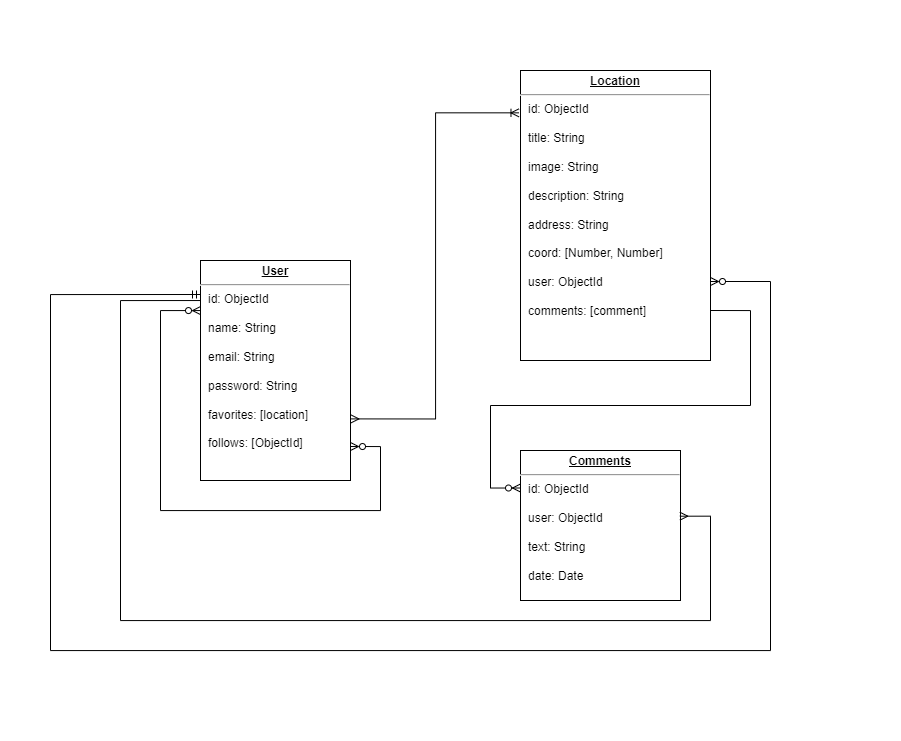
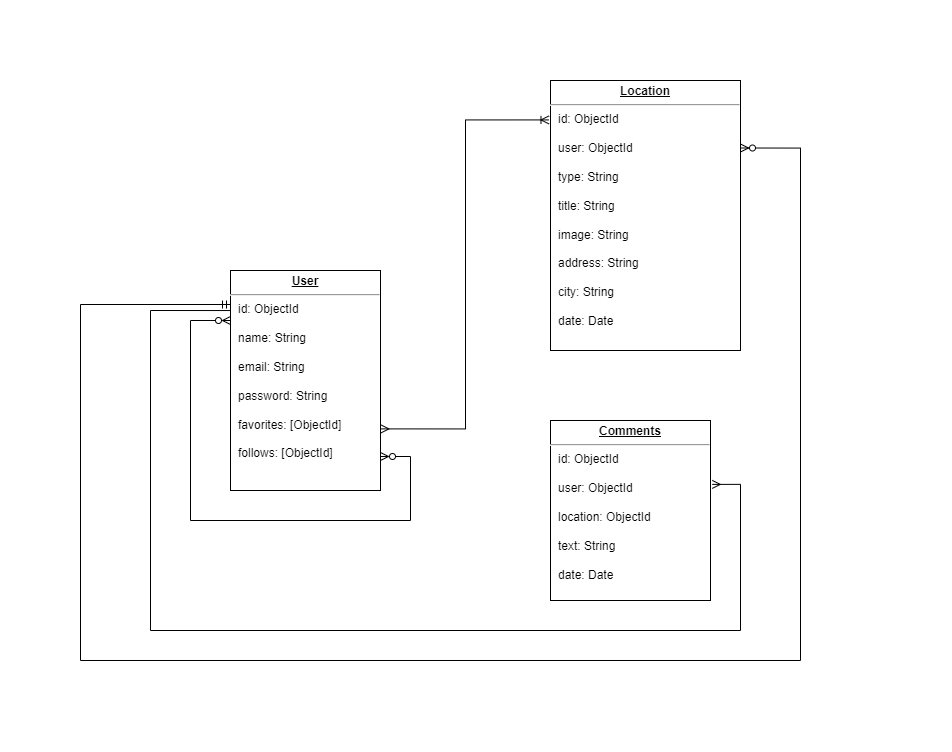
odify images and docs

diff --git a/staff/paula-rey/full-stack/final-project/docs/README.md b/staff/paula-rey/full-stack/final-project/docs/README.md
@@ -34,7 +34,7 @@ Gracias a la creación de una preciosa comunidad, entre todos podremos descubir 
 
 ### Blocks
 
-![alt Blocks Diagram](./images/block-diagram.png)
+![alt Blocks Diagram](./images/blocks-diagram.png)
 
 ### Data Model
 
@@ -49,7 +49,7 @@ user
 location
 - user: (ObjectId, User, required, unique)
 - type: (String, required, enum)
-- name: (String, required)
+- title: (String, required)
 - image: (String)
 - address: (String, required)
 - city: (String, required, enum)
@@ -99,3 +99,9 @@ comment
 ##### Logic
 
 - TODO ... ()
+
+
+
+<!-- TODO validaciones reales (minLength..., @, etc) en schemas -->
+<!-- lean()//poner findUserById en logicas de locations y comments//mejorar manejo errores -->
+
